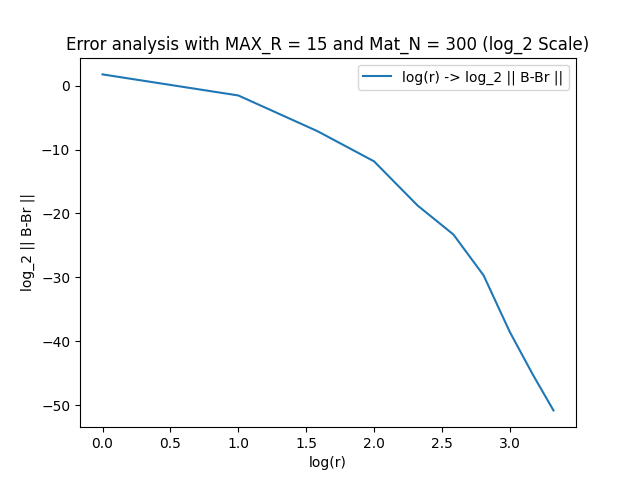
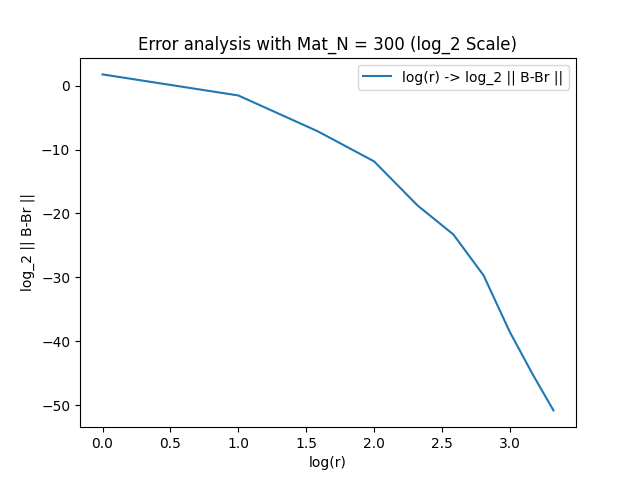
README update

Changed region(s): [[0.0938, 0.0625, 0.9062, 0.125]]

diff --git a/main.cpp b/main.cpp
@@ -4,37 +4,72 @@
 #include "DenseMatrix.hpp"
 #include "FredholmMatrix.hpp"
 #include "VectorArithmetics.hpp"
+#include <cstdlib>
 
 using namespace std;
-int main(){
 
-    /* Testing the minimal residual linear solving function.
-        [1 0 0]             [1]
-    A = [0 1 0] + [1 1 1] * [1]
-        [0 0 1]             [1]
+
+void input(int options[], int argc, char* argv[]){
+    /* Managing user's options. 
+    options[0]: MinResSolve.
+    options[1]: Plot Graph 1.
+    options[2]: Plot Graph 2.
     */
-    vector<double> u1 = {1, 1, 1};
-    vector<double> v1 = {1, 1, 1};
-
-    FredholmMatrix A(3);
-    A.insert(0, 0, 1);
-    A.insert(1, 1, 1);
-    A.insert(2, 2, 1);
-    A.insert(u1, v1);
-
-    cout << A << endl;
-    vector<double> b = {1, 2, 3};
-    vector<double> x = MinResSolve(A, b);
-
-    cout << x << endl;
+    if (argc == 4){
+        options[0] = atoi(argv[1]);
+        options[1] = atoi(argv[2]);
+        options[2] = atoi(argv[3]);
+    } else {
+        options[0] = 1;
+        options[1] = 0;
+        options[2] = 0;
+    }
 
 
-    // std::cout.precision(5);
-    // PlotGraph(10);
+}
 
-    // std::cout.precision(5);
-    // PlotGraph("matrix.txt");
 
+int main(int argc, char* argv[]){
+
+    int options[3];
+    input(options, argc, argv);
+
+    if (options[0]){
+        /* Testing the minimal residual linear solving function.
+            [1 0 0]             [1]
+        A = [0 1 0] + [1 1 1] * [1]
+            [0 0 1]             [1]
+        */
+        cout << endl << "Testing ResMinSolve." << endl;
+        vector<double> u1 = {1, 1, 1};
+        vector<double> v1 = {1, 1, 1};
+
+        FredholmMatrix A(3);
+        A.insert(0, 0, 1);
+        A.insert(1, 1, 1);
+        A.insert(2, 2, 1);
+        A.insert(u1, v1);
+
+        cout << A << endl;
+        vector<double> b = {1, 2, 3};
+        vector<double> x = MinResSolve(A, b);
+
+        cout << x << endl;
+    }
+
+    if (options[1]){
+        cout << endl << "Plotting Graph 1." << endl;
+        std::cout.precision(5);
+        PlotGraph(10);
+        cout << endl << "Graph 1 plotted." << endl << endl;
+    }
+
+    if (options[2]){
+        cout << endl << "Plotting Graph 2." << endl;
+        std::cout.precision(5);
+        PlotGraph("matrix.txt");
+        cout << endl << "Graph 2 plotted." << endl << endl;
+    }
 
     return 0;
 }

diff --git a/FredholmMatrix.hpp b/FredholmMatrix.hpp
@@ -13,8 +13,6 @@ using namespace std;
 
 #define EPS 1.0E-10
 #define NB_ITER 100
-#define MAX_R 15
-#define MAX_R_2 100
 
 
 class FredholmMatrix{
@@ -214,8 +212,8 @@ void PlotGraph(const size_t& n){
     */
 
     // The X_axis and Y_axis for plotting.
-    vector<double> X(MAX_R);
-    vector<double> Y(MAX_R);
+    vector<double> X(n);
+    vector<double> Y(n);
 
     // Constructing B.
     DenseMatrix B(n, n);
@@ -228,7 +226,7 @@ void PlotGraph(const size_t& n){
     }
 
     // Constructing Br.
-    for (int r = 1; r <= MAX_R; r++){
+    for (size_t r = 1; r <= n; r++){
         cout << "r = " << r << endl;
         FredholmMatrix Br = CrossApproximation(B, r);
 
@@ -252,15 +250,16 @@ void PlotGraph(const string& filename){
     B loaded from filename.
     */
     
-    // The X_axis and Y_axis for plotting.
-    vector<double> X(MAX_R_2);
-    vector<double> Y(MAX_R_2);
 
     // Loading B.
     DenseMatrix B = LoadDenseMatrix(filename);
 
+    // The X_axis and Y_axis for plotting.
+    vector<double> X(B.nr);
+    vector<double> Y(B.nr);
+
     // Constructing Br.
-    for (int r = 1; r <= MAX_R_2; r++){
+    for (int r = 1; r <= B.nr; r++){
         cout << "r = " << r << endl;
         FredholmMatrix Br = CrossApproximation(B, r);
 

diff --git a/script.py b/script.py
@@ -4,7 +4,7 @@ import sys
 
 input = "Graph1.txt"
 output = "Graph1.png"
-title = "Error analysis with MAX_R = 15 and Mat_N = 300 (log_2 Scale)"
+title = "Error analysis with Mat_N = 10 (log_2 Scale)"
 
 """ Examples.
 Default: Graph 1.
@@ -17,14 +17,16 @@ if len(sys.argv) == 2:
     if sys.argv[1] == "2":
         input = "Graph2.txt"
         output = "Graph2.png"
-        title = "Error analysis with MAX_R = 300 and Mat_N = 300 (log_2 Scale)"
-        print("Plotting the Graph 2.")
+        title = "Error analysis with Mat_N = 300 (log_2 Scale)"
+        print("User's choice: Graph 2.")
     else:
-        print("Plotting the Graph 1.")
+        print("User's choice: Graph 1.")
 else:
-    print("Plotting the Graph 1.")
+    print("User's choice: Graph 1.")
 
 
+print()
+print("Reading from:", input);
 with open(input, "r") as f:
     X = []
     Y = []
@@ -38,8 +40,9 @@ with open(input, "r") as f:
         X.append(x)
         Y.append(y)
 
-print("X = ", X)
-print("Y = ", Y)
+# print("X = ", X)
+# print("Y = ", Y)
+
 
 plt.plot(X, Y, label="log(r) -> log_2 || B-Br ||")
 plt.title(title)
@@ -48,3 +51,4 @@ plt.ylabel("log_2 || B-Br ||")
 plt.legend()
 plt.savefig(output)
 plt.clf()
+print("Graph plotted at:", output)

diff --git a/README.md b/README.md
@@ -1,1 +1,22 @@
 # Large-Linear-System
+
+## How to compile the C++ code.
+```bash
+$ g++ main.cpp -o main -Wall
+```
+## How to run the executable.
+There are 3 executable functions: MinResSolve, Plot Graph 1 and Plot Graph 2.
+You can input 1 to run it, or 0 to not run it.
+
+Example to plot Graph 1 and Graph 2:
+```bash
+$ ./main 0 1 1
+```
+
+## How to run the python script.
+There are 2 data text file that the scripts is able to read. 
+You can input 1 to generate the first plot and 2 for the second.
+Example:
+```bash
+$ python3 script.py 2
+```
